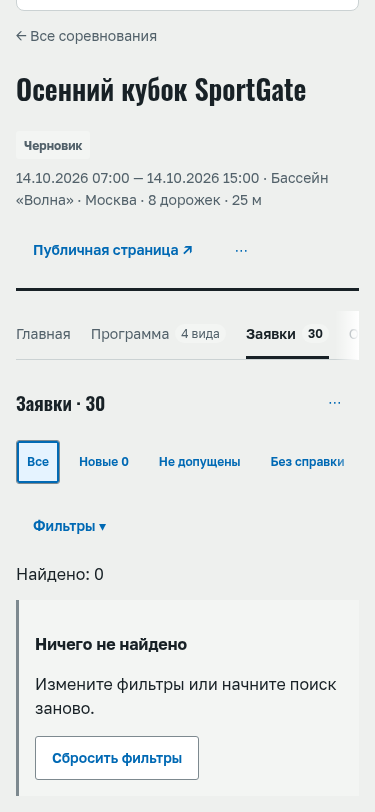
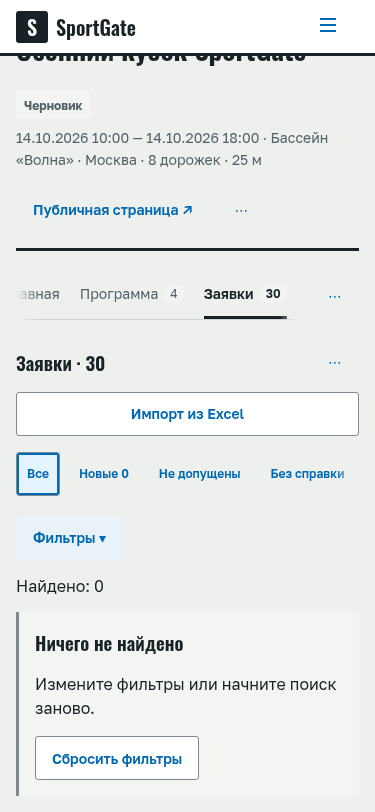
fix(organizer): integrate shared entries table after main merge

diff --git a/sport-platform/frontend/src/features/organizer/OrganizerEntriesPage.tsx b/sport-platform/frontend/src/features/organizer/OrganizerEntriesPage.tsx
@@ -3,6 +3,7 @@ import { PaymentHistoryDialog } from '../payments/PaymentHistoryDialog'
 import { money, paymentLabels, type PaymentAction } from '../../api/registration-payments.api'
 import { useState, type FormEvent } from 'react'
 import { EntryRowMenu } from './EntryRowMenu'
+import { DataTable } from '../../components/ui/DataTable'
 import { EmptyState } from '../../components/ui/EmptyState'
 import { Notice } from '../../components/ui/Notice'
 import { DocumentsPanel } from '../documents/DocumentsPanel'
@@ -158,9 +159,7 @@ export function OrganizerEntriesPage() {
         <h2>Заявки · <span className={styles.numeric}>{registrations.length}</span></h2>
         <div className={styles.actions}>
           <button className={`${styles.importButton} fl-btn fl-btn-secondary`} disabled={busy || event.status === 'ARCHIVED'} title={disabledReason} onClick={() => setImportOpen(true)}>Импорт из Excel</button>
-          <EntryRowMenu label="Ещё действия" triggerName="Ещё действия">
-            <button className="fl-btn fl-btn-ghost" onClick={exportEntries}>Экспорт списка (CSV)</button>
-          </EntryRowMenu>
+          <EntryRowMenu label="Ещё действия" items={[{ label: 'Экспорт списка (CSV)', onSelect: exportEntries }]} />
         </div>
       </header>
       {disabledReason && <small className={styles.muted}>{disabledReason}</small>}
@@ -261,55 +260,39 @@ export function OrganizerEntriesPage() {
         {visible.length > 0 && <label className={styles.selection}><input type="checkbox" aria-label="Выбрать все видимые заявки" disabled={bulkBusy || busy || event.status === 'ARCHIVED'} title={disabledReason || (bulkBusy ? 'Дождитесь завершения обработки заявок' : undefined)} checked={visible.length > 0 && visible.every(r => selected.includes(r.id))} onChange={e => setSelected(e.target.checked ? [...new Set([...selected, ...visible.map(r => r.id)])] : selected.filter(id => !visible.some(r => r.id === id)))} /><span className={styles.selectAllLabel}>Выбрать все</span></label>}
       </div>
       {visible.length > 0 && <div className={styles.tableFrame}>
-        <div className={`${styles.table} fl-table-scroll fl-data-table-scroll fl-rowcards`} role="region" aria-label="Заявки участников" tabIndex={0}>
-          <table className="fl-table">
-            <caption className="fl-sr-only">Заявки участников</caption>
-            <thead><tr>
-              {[
-                { label: '№', className: styles.number },
-                { label: 'ФИО', className: styles.name },
-                { label: 'Год', className: styles.year },
-                { label: 'Клуб', className: styles.club },
-                { label: 'Вид', className: styles.discipline },
-                { label: 'Допуск', className: styles.admission },
-                { label: 'Документы', className: styles.documents, title: '✓ принят · ◷ на проверке · ✕ отклонён · — нет' },
-                { label: 'Заявочное время', className: styles.seed },
-                { label: 'Статус', className: styles.status },
-                { label: 'Оплата', className: styles.payment },
-                { label: 'Действия', className: styles.rowActions },
-              ].map(column => <th key={column.label} scope="col" className={column.className} title={column.title}>{column.label}</th>)}
-            </tr></thead>
-            <tbody>{visible.map((r, index) => {
-              const name = `${r.participantSnapshot.lastName} ${r.participantSnapshot.firstName} ${r.participantSnapshot.middleName ?? ''}`.trim()
-              const canPay = ['CONFIRMED', 'ADMITTED'].includes(r.status) && !['PAID', 'WAIVED', 'REFUNDED'].includes(r.paymentStatus)
-              const canReview = ['SUBMITTED', 'UNDER_REVIEW'].includes(r.status)
-              return <tr key={r.id}>
-                <td className={styles.number}><label className={styles.selection}><input type="checkbox" aria-label={`Выбрать заявку ${r.participantSnapshot.lastName} ${r.participantSnapshot.firstName}`} checked={selected.includes(r.id)} disabled={bulkBusy || busy || event.status === 'ARCHIVED'} title={disabledReason || (bulkBusy ? 'Дождитесь завершения обработки заявок' : undefined)} onChange={e => setSelected(e.target.checked ? [...selected, r.id] : selected.filter(id => id !== r.id))} /><span>{index + 1}</span></label></td>
-                <th scope="row" className={styles.name}>
-                  {name}
+        <div className={styles.table}>
+          <DataTable caption="Заявки участников" cards minWidth="var(--content-max)" maxHeight="min(60vh, calc(var(--space-16) * 10))"
+            rows={visible.map((r, index) => ({ ...r, rowNumber: index + 1,
+              name: `${r.participantSnapshot.lastName} ${r.participantSnapshot.firstName} ${r.participantSnapshot.middleName ?? ''}`.trim(),
+              canPay: ['CONFIRMED', 'ADMITTED'].includes(r.status) && !['PAID', 'WAIVED', 'REFUNDED'].includes(r.paymentStatus),
+              canReview: ['SUBMITTED', 'UNDER_REVIEW'].includes(r.status),
+            }))} rowKey={r => r.id} columns={[
+            { key: 'number', header: <span className={styles.number}>№</span>, label: '', render: r => <div className={styles.number}><label className={styles.selection}><input type="checkbox" aria-label={`Выбрать заявку ${r.participantSnapshot.lastName} ${r.participantSnapshot.firstName}`} checked={selected.includes(r.id)} disabled={bulkBusy || busy || event.status === 'ARCHIVED'} title={disabledReason || (bulkBusy ? 'Дождитесь завершения обработки заявок' : undefined)} onChange={e => setSelected(e.target.checked ? [...selected, r.id] : selected.filter(id => id !== r.id))} /><span>{r.rowNumber}</span></label></div> },
+            { key: 'name', header: <span className={styles.name}>ФИО</span>, label: '', rowHeader: true, render: r => <div className={styles.name}>
+                  {r.name}
                   {r.admissionWarnings?.map(warning => <small key={warning} className={styles.error}>{warning}</small>)}
-                </th>
-                <td className={styles.mobileMeta}>{event.disciplines.find(d => d.id === r.eventDisciplineId)?.name ?? '—'} · {r.participantSnapshot.birthDate?.slice(0, 4) ?? '—'} · {r.participantSnapshot.clubName || '—'}</td>
-                <td className={styles.year} data-numeric>{r.participantSnapshot.birthDate?.slice(0, 4) ?? '—'}</td>
-                <td className={styles.club}>{r.participantSnapshot.clubName || '—'}</td>
-                <td className={styles.discipline}>{event.disciplines.find(d => d.id === r.eventDisciplineId)?.name ?? '—'}</td>
-                <td className={styles.admission}><span title={admission(r).title}>{admission(r).excluded ? 'Не допущена' : admission(r).label}</span></td>
-                <td className={styles.documents}><span title={(Object.keys(documentTypes) as DocumentType[]).map(type => `${documentTypes[type]}: ${documentStatusLabels[r.documents?.[type] ?? 'NOT_UPLOADED']}`).join(' · ')}>{(Object.keys(documentTypes) as DocumentType[]).map(type => {
+                </div> },
+            { key: 'mobileMeta', header: <span className={styles.mobileMeta}></span>, label: '', render: r => <div className={styles.mobileMeta}>{event.disciplines.find(d => d.id === r.eventDisciplineId)?.name ?? '—'} · {r.participantSnapshot.birthDate?.slice(0, 4) ?? '—'} · {r.participantSnapshot.clubName || '—'}</div> },
+            { key: 'year', header: <span className={styles.year}>Год</span>, label: '', numeric: true, render: r => <div className={styles.year}>{r.participantSnapshot.birthDate?.slice(0, 4) ?? '—'}</div> },
+            { key: 'club', header: <span className={styles.club}>Клуб</span>, label: '', render: r => <div className={styles.club}>{r.participantSnapshot.clubName || '—'}</div> },
+            { key: 'discipline', header: <span className={styles.discipline}>Вид</span>, label: '', render: r => <div className={styles.discipline}>{event.disciplines.find(d => d.id === r.eventDisciplineId)?.name ?? '—'}</div> },
+            { key: 'admission', header: <span className={styles.admission}>Допуск</span>, label: '', render: r => <div className={styles.admission}><span title={admission(r).title}>{admission(r).excluded ? 'Не допущена' : admission(r).label}</span></div> },
+            { key: 'documents', header: <span className={styles.documents} title="✓ принят · ◷ на проверке · ✕ отклонён · — нет">Документы</span>, label: '', render: r => <div className={styles.documents}><span title={(Object.keys(documentTypes) as DocumentType[]).map(type => `${documentTypes[type]}: ${documentStatusLabels[r.documents?.[type] ?? 'NOT_UPLOADED']}`).join(' · ')}>{(Object.keys(documentTypes) as DocumentType[]).map(type => {
                   const state = r.documents?.[type] ?? 'NOT_UPLOADED'
                   return <span key={type} title={`${documentTypes[type]}: ${documentStatusLabels[state]}`}>{state === 'ACCEPTED' ? '✓' : state === 'PENDING' ? '◷' : state === 'REJECTED' ? '✕' : '—'} </span>
-                })}</span></td>
-                <td data-numeric className={styles.seed}><span className={styles.mobileLabel}>Заявочное время</span><SeedTimeEditor registration={r} /></td>
-                <td className={styles.status}><StatusBadge kind="registration" code={r.status} />{r.waitlistPosition != null ? ` · № ${r.waitlistPosition}` : ''}</td>
-                <td className={styles.payment}><span className={styles.mobileLabel}>Оплата</span><span className={styles.paymentContent}>{r.feeAmount != null && <span className={styles.numeric}>{money(r.feeAmount, r.feeCurrency ?? 'RUB')}</span>}<StatusBadge kind="payment" code={r.paymentStatus} /></span></td>
-                <td className={styles.rowActions}><div className={styles.actions}>
-                  {canReview ? <button className="fl-btn fl-btn-secondary" disabled={busy || event.status === 'ARCHIVED'} title={disabledReason} onClick={() => openReview(r.id, 'CONFIRMED')}>Подтвердить</button>
-                    : canPay ? <button className="fl-btn fl-btn-secondary" disabled={busy || event.status === 'ARCHIVED'} title={disabledReason} onClick={() => setPaymentDialog({ ids: [r.id], amount: r.feeAmount })}>Отметить оплату…</button> : null}
+                })}</span></div> },
+            { key: 'seed', header: <span className={styles.seed}>Заявочное время</span>, label: '', numeric: true, render: r => <div className={styles.seed}><span className={styles.mobileLabel}>Заявочное время</span><SeedTimeEditor registration={r} /></div> },
+            { key: 'status', header: <span className={styles.status}>Статус</span>, label: '', render: r => <div className={styles.status}><StatusBadge kind="registration" code={r.status} />{r.waitlistPosition != null ? ` · № ${r.waitlistPosition}` : ''}</div> },
+            { key: 'payment', header: <span className={styles.payment}>Оплата</span>, label: '', render: r => <div className={styles.payment}><span className={styles.mobileLabel}>Оплата</span><span className={styles.paymentContent}>{r.feeAmount != null && <span className={styles.numeric}>{money(r.feeAmount, r.feeCurrency ?? 'RUB')}</span>}<span title="Статус оплаты"><StatusBadge kind="payment" code={r.paymentStatus} /></span></span></div> },
+            { key: 'rowActions', header: <span className={styles.rowActions}>Действия</span>, label: '', render: r => <div className={styles.rowActions}><div className={styles.actions}>
+                  {r.canReview ? <button className="fl-btn fl-btn-secondary" disabled={busy || event.status === 'ARCHIVED'} title={disabledReason} onClick={() => openReview(r.id, 'CONFIRMED')}>Подтвердить</button>
+                    : r.canPay ? <button className="fl-btn fl-btn-secondary" disabled={busy || event.status === 'ARCHIVED'} title={disabledReason} onClick={() => setPaymentDialog({ ids: [r.id], amount: r.feeAmount })}>Отметить оплату…</button> : null}
                   <EntryRowMenu>
                     {r.status === 'WAITLISTED' && <button className="fl-btn fl-btn-secondary" disabled={busy || event.status === 'ARCHIVED'} title={disabledReason} onClick={() => openReview(r.id, 'CONFIRMED')}>Подтвердить вне лимита</button>}
-                    {canReview && <button className="fl-btn fl-btn-secondary" disabled={busy || event.status === 'ARCHIVED'} title={disabledReason} onClick={() => openReview(r.id, 'NEEDS_CORRECTION')}>Вернуть</button>}
+                    {r.canReview && <button className="fl-btn fl-btn-secondary" disabled={busy || event.status === 'ARCHIVED'} title={disabledReason} onClick={() => openReview(r.id, 'NEEDS_CORRECTION')}>Вернуть</button>}
                     {['SUBMITTED', 'UNDER_REVIEW', 'WAITLISTED', 'CONFIRMED', 'NEEDS_CORRECTION'].includes(r.status) && <button className="fl-btn fl-btn-danger" disabled={busy || event.status === 'ARCHIVED'} title={disabledReason} onClick={() => openReview(r.id, 'REJECTED')}>Отклонить</button>}
                     {!['WITHDRAWN', 'CANCELLED', 'REJECTED'].includes(r.status) && <button className="fl-btn fl-btn-secondary" disabled={busy || event.status === 'ARCHIVED'} title={disabledReason} onClick={() => { clearError(); setWithdraw(r) }}>Снять</button>}
-                    {canPay && <button className="fl-btn fl-btn-secondary" disabled={busy || event.status === 'ARCHIVED'} title={disabledReason} onClick={() => setPaymentDialog({ ids: [r.id], action: 'waive-payment' })}>Освободить от взноса</button>}
+                    {r.canPay && <button className="fl-btn fl-btn-secondary" disabled={busy || event.status === 'ARCHIVED'} title={disabledReason} onClick={() => setPaymentDialog({ ids: [r.id], action: 'waive-payment' })}>Освободить от взноса</button>}
                     {r.paymentStatus === 'PAID' && <button className="fl-btn fl-btn-secondary" disabled={busy || event.status === 'ARCHIVED'} title={disabledReason} onClick={() => setPaymentDialog({ ids: [r.id], action: 'refund-payment', amount: r.paidAmount })}>Вернуть оплату</button>}
                     {['PAID', 'WAIVED', 'REFUNDED'].includes(r.paymentStatus) && <button className="fl-btn fl-btn-secondary" disabled={busy || event.status === 'ARCHIVED'} title={disabledReason} onClick={() => setPaymentDialog({ ids: [r.id], action: 'reset-payment' })}>Сбросить оплату</button>}
                     <button className="fl-btn fl-btn-ghost" onClick={() => setHistoryId(r.id)}>История оплаты</button>
@@ -317,10 +300,8 @@ export function OrganizerEntriesPage() {
                     <p className={styles.muted}>Год: {r.participantSnapshot.birthDate?.slice(0, 4) ?? '—'} · Клуб: {r.participantSnapshot.clubName || '—'} · Пол: {r.participantSnapshot.gender === 'MALE' ? 'Мужской' : r.participantSnapshot.gender === 'FEMALE' ? 'Женский' : '—'} · Источник: {r.source === 'IMPORT' ? 'Импорт' : 'Форма'}</p>
                     <p className={styles.muted}>{admission(r).title}</p>
                   </EntryRowMenu>
-                </div></td>
-              </tr>
-            })}</tbody>
-          </table>
+                </div></div> }
+          ]} />
         </div>
       </div>}
       {!visible.length && !busy && !error && <EmptyState title={registrations.length ? 'Ничего не найдено' : 'Заявок пока нет'} action={registrations.length

diff --git a/sport-platform/frontend/src/features/organizer/Entries.module.css b/sport-platform/frontend/src/features/organizer/Entries.module.css
@@ -8,7 +8,7 @@
 .error { color: var(--color-danger); }
 .link { color: var(--color-primary); text-decoration: underline; }
 .stack, .form { display: grid; gap: var(--space-4); min-width: 0; }
-.chips { min-width: 0; max-width: 100%; display: flex; flex-wrap: nowrap !important; gap: var(--space-2); overflow-x: auto; scrollbar-width: thin; overscroll-behavior-inline: contain; scroll-padding-inline: var(--space-4); mask-image: linear-gradient(90deg, var(--color-text) calc(100% - var(--space-6)), transparent); padding-inline-end: var(--space-6); }
+.card .chips { min-width: 0; max-width: 100%; display: flex; flex-wrap: nowrap; gap: var(--space-2); }
 .chips > button { flex: 0 0 auto; white-space: nowrap; }
 .chips [aria-pressed='true'] { background: var(--surface-3); color: var(--color-primary); box-shadow: var(--focus-ring-inset); }
 .filterPanel { min-width: 0; max-width: 100%; }
@@ -22,16 +22,21 @@
 .card .selection input[type='checkbox']:disabled { opacity: .5; }
 .tableFrame { min-width: 0; position: relative; }
 .tableFrame::after { content: ''; position: absolute; inset: 0 0 0 auto; width: var(--space-6); background: linear-gradient(to left, var(--surface-1), transparent); pointer-events: none; }
-.table { max-height: min(60vh, calc(var(--space-16) * 10)); overflow: auto; scrollbar-width: thin; overscroll-behavior-inline: contain; box-shadow: inset var(--space-2) 0 var(--space-2) calc(-1 * var(--space-2)) var(--border-strong); }
+.table > :global(.fl-data-table-scroll) { max-height: min(60vh, calc(var(--space-16) * 10)); overflow: auto; scrollbar-width: thin; overscroll-behavior-inline: contain; box-shadow: inset var(--space-2) 0 var(--space-2) calc(-1 * var(--space-2)) var(--border-strong); }
+.table { min-width: 0; }
 .table table { width: 100%; table-layout: fixed; }
+.table caption { position: absolute; width: 1px; height: 1px; overflow: hidden; clip-path: inset(50%); }
 .table :is(td, th) { overflow-wrap: anywhere; vertical-align: middle; }
 .table thead th { position: sticky; top: 0; z-index: 1; background: var(--surface-2); font-size: var(--text-xs); }
-.table .number { width: var(--control-h); overflow-wrap: normal; }
-.table thead .number { width: calc(var(--control-h) + var(--space-10)); }
-.table thead .seed { width: calc(var(--space-16) * 2); }
-.table thead .status, .table thead .payment { width: calc(var(--space-16) * 2 + var(--space-4)); }
-.table :is(.admission, .documents) { display: none; }
-.table .mobileMeta, .mobileLabel { display: none; }
+.table :is(th, td):has(> .number) { width: var(--control-h); overflow-wrap: normal; }
+.table thead th:has(> .number) { width: calc(var(--control-h) + var(--space-10)); }
+.card:global(.fl-entries) .table :global(.fl-table) :is(th, td):has(> :is(.number, .name)) { left: auto; }
+.card:global(.fl-entries) .table :global(.fl-table) tbody :is(th, td):has(> :is(.number, .name)) { position: static; box-shadow: none; }
+.table thead th:has(> .name) { width: calc(var(--space-16) * 3); }
+.table thead th:has(> .seed) { width: calc(var(--space-16) * 2); }
+.table thead th:has(> .status), .table thead th:has(> .payment) { width: calc(var(--space-16) * 2 + var(--space-4)); }
+.table :is(th, td):has(> :is(.admission, .documents)) { display: none; }
+.table :is(th, td):has(> .mobileMeta), .mobileLabel { display: none; }
 .name > small { display: block; font-size: var(--text-xs); font-weight: 400; }
 .name { font-size: var(--text-md); font-weight: var(--font-weight-medium); }
 .table .seedButton { font-variant-numeric: var(--numeric-variant); font-size: var(--text-md); font-weight: var(--font-weight-medium); white-space: nowrap; }
@@ -39,8 +44,8 @@
 .seedForm input { width: 100%; font-variant-numeric: var(--numeric-variant); }
 .seedForm .actions { flex-wrap: wrap; }
 .paymentContent { display: grid; gap: var(--space-1); justify-items: start; }
-.table .rowActions { position: sticky; right: 0; background: var(--surface-1); box-shadow: var(--shadow-drawer); }
-.table thead .rowActions { right: 0; z-index: 2; }
+.table :is(th, td):has(> .rowActions) { position: sticky; right: 0; background: var(--surface-1); box-shadow: var(--shadow-drawer); }
+.table thead th:has(> .rowActions) { right: 0; z-index: 2; width: calc(var(--space-16) * 3); }
 .rowActions .actions { flex-wrap: nowrap; justify-content: flex-end; }
 .rowActions button { padding-inline: var(--space-2); white-space: normal; }
 .bulkBar { display: flex; flex-wrap: wrap; gap: var(--space-2); bottom: 0; box-shadow: var(--shadow-sticky); }
@@ -52,46 +57,41 @@
 @media (min-width: 768px) {
   .card { padding: var(--space-6); }
   .filters { grid-template-columns: repeat(2, minmax(0, 1fr)); }
-  .table table { min-width: var(--content-max); }
 }
 @media (min-width: 1024px) {
   .filters { grid-template-columns: repeat(4, minmax(0, 1fr)); }
 }
-@media (max-width: 1366px) {
-  .table thead .rowActions { width: 21%; }
-}
 @media (min-width: 1367px) {
-  .table :is(.admission, .documents) { display: table-cell; }
-  .table table { min-width: calc(var(--space-16) * 17); }
+  .table :is(th, td):has(> :is(.admission, .documents)) { display: table-cell; }
 }
 @media (max-width: 767px) {
   .card { border: 0; padding: 0; background: transparent; }
   .toolbar { display: grid; grid-template-columns: minmax(0, 1fr) auto; }
   .toolbar > .actions { display: contents; }
   .toolbar .importButton { grid-column: 1 / -1; grid-row: 2; width: 100%; }
-  .toolbar > .actions > button:not(.importButton) { grid-area: 1 / 2; }
+  .toolbar > .actions > :global(.fl-overflow-menu), .toolbar > .actions > button:not(.importButton) { grid-area: 1 / 2; }
   .meta { flex-wrap: nowrap; }
   .meta p, .selectAllLabel { white-space: nowrap; }
-  .table :is(.year, .club) { display: none; }
+  .card .table :is(th, td):has(> :is(.year, .club, .admission, .documents)) { display: none; }
   .tableFrame::after { display: none; }
-  .table { border: 0; border-radius: 0; max-height: none; overflow: visible; box-shadow: none; background: transparent; }
-  .table :is(table, tbody) { display: block; width: 100%; }
-  .card .table thead { position: absolute; clip-path: inset(50%); width: 1px; height: 1px; overflow: hidden; }
-  .card:global(.fl-entries) .table :global(.fl-table) :is(.number, .name) { position: static; left: auto; width: auto; min-width: 0; max-width: none; box-shadow: none; background: transparent; }
-  .table tr { display: grid; grid-template-columns: var(--control-h) minmax(0, 1fr) auto; gap: var(--space-2); padding: var(--space-3); border: 1px solid var(--border-subtle); border-radius: var(--radius-md); margin-bottom: var(--space-2); background: var(--surface-1); }
-  .card .table tr > :is(td, th) { border: 0; padding: 0; background: transparent; }
-  .table .number { grid-area: 1 / 1; align-self: start; }
+  .card .table > :global(.fl-data-table-scroll) { box-shadow: none; }
+  .card:global(.fl-entries) .table :global(.fl-table) :is(th, td):has(> :is(.number, .name)) { position: static; left: auto; width: auto; min-width: 0; max-width: none; box-shadow: none; background: transparent; }
+  .card .table tbody tr { grid-template-columns: var(--control-h) minmax(0, 1fr) auto; gap: var(--space-2); }
+  .card .table tr > :is(td, th) { display: block; border: 0; padding: 0; background: transparent; }
+  .table :is(th, td):has(> .number) { grid-area: 1 / 1; align-self: start; }
   .number span { display: none; }
-  .table .name { grid-area: 1 / 2; align-self: center; text-align: left; }
-  .table .status { grid-area: 1 / 3; align-self: center; max-width: calc(var(--space-16) * 2); }
-  .table .mobileMeta { display: block; grid-area: 2 / 1 / auto / -1; }
-  .table .discipline { display: none; }
-  .table .seed { grid-area: 3 / 1 / auto / -1; display: flex; align-items: center; justify-content: space-between; gap: var(--space-2); white-space: normal; }
+  .table :is(th, td):has(> .name) { grid-area: 1 / 2; align-self: center; text-align: left; }
+  .table :is(th, td):has(> .status) { grid-area: 1 / 3; align-self: center; max-width: calc(var(--space-16) * 2); }
+  .card .table :is(th, td):has(> .mobileMeta) { display: block; grid-area: 2 / 1 / auto / -1; }
+  .card .table :is(th, td):has(> .discipline) { display: none; }
+  .table :is(th, td):has(> .seed) { grid-area: 3 / 1 / auto / -1; }
+  .seed { display: flex; align-items: center; justify-content: space-between; gap: var(--space-2); white-space: normal; }
   .mobileLabel { display: inline; text-align: left; }
   .seedForm { max-width: 60%; }
   .paymentContent { justify-items: end; }
-  .table .payment { grid-area: 4 / 1 / auto / -1; display: flex; justify-content: space-between; align-items: center; gap: var(--space-2); }
-  .table .rowActions { grid-area: 5 / 1 / auto / -1; position: static; box-shadow: none; }
+  .table :is(th, td):has(> .payment) { grid-area: 4 / 1 / auto / -1; }
+  .payment { display: flex; justify-content: space-between; align-items: center; gap: var(--space-2); }
+  .table :is(th, td):has(> .rowActions) { grid-area: 5 / 1 / auto / -1; position: static; box-shadow: none; }
   .rowActions .actions > button:first-child { flex: 1; }
   .rowActions .actions > button:last-child { flex: 0 0 var(--control-h); }
   .bulkBar > button { flex: 1 1 auto; }

diff --git a/sport-platform/frontend/src/features/organizer/EntryRowMenu.tsx b/sport-platform/frontend/src/features/organizer/EntryRowMenu.tsx
@@ -1,22 +1,38 @@
 import { useEffect, useId, useLayoutEffect, useRef, useState, type ReactNode } from 'react'
 import { createPortal } from 'react-dom'
+import { OverflowMenu, type OverflowMenuItem } from '../../components/ui/OverflowMenu'
 import styles from './Entries.module.css'
 
 // Preserve the UX-19 portal and focus lifecycle outside the scrolling table.
-export function EntryRowMenu({ children, label = 'Действия заявки', triggerName = 'Ещё ▾' }: { children: ReactNode; label?: string; triggerName?: string }) {
+type EntryRowMenuProps = { children?: ReactNode; label?: string; triggerName?: string; items?: readonly OverflowMenuItem[] }
+export function EntryRowMenu({ items, ...props }: EntryRowMenuProps) {
+  return items ? <OverflowMenu items={items} label={props.triggerName ?? props.label} /> : <EntryActions {...props} />
+}
+// Keep the QA06-10 / UX-19 row-region contract until the coordinated D04-3 migration.
+function EntryActions({ children, label = 'Действия заявки', triggerName = 'Ещё ▾' }: Omit<EntryRowMenuProps, 'items'>) {
   const [open, setOpen] = useState(false)
   const trigger = useRef<HTMLButtonElement>(null)
   const panel = useRef<HTMLDivElement>(null)
   const id = useId()
   useLayoutEffect(() => {
     if (!open || !trigger.current || !panel.current) return
-    const rect = trigger.current.getBoundingClientRect()
-    const menu = panel.current
-    const gap = parseFloat(getComputedStyle(document.documentElement).getPropertyValue('--space-2')) || 0
-    menu.style.left = `${Math.max(gap, Math.min(rect.right - menu.offsetWidth, window.innerWidth - menu.offsetWidth - gap)) + window.scrollX}px`
-    const top = rect.bottom + menu.offsetHeight + gap <= window.innerHeight ? rect.bottom + gap : Math.max(gap, rect.top - menu.offsetHeight - gap)
-    menu.style.top = `${top + window.scrollY}px`
-    menu.querySelector<HTMLButtonElement>('button:not(:disabled)')?.focus({ preventScroll: true })
+    const position = () => {
+      if (!trigger.current || !panel.current) return
+      const rect = trigger.current.getBoundingClientRect()
+      const menu = panel.current
+      const gap = parseFloat(getComputedStyle(document.documentElement).getPropertyValue('--space-2')) || 0
+      menu.style.left = `${Math.max(gap, Math.min(rect.right - menu.offsetWidth, window.innerWidth - menu.offsetWidth - gap)) + window.scrollX}px`
+      const top = rect.bottom + menu.offsetHeight + gap <= window.innerHeight ? rect.bottom + gap : Math.max(gap, rect.top - menu.offsetHeight - gap)
+      menu.style.top = `${top + window.scrollY}px`
+    }
+    position()
+    panel.current.querySelector<HTMLButtonElement>('button:not(:disabled)')?.focus({ preventScroll: true })
+    window.addEventListener('resize', position)
+    window.addEventListener('scroll', position, true)
+    return () => {
+      window.removeEventListener('resize', position)
+      window.removeEventListener('scroll', position, true)
+    }
   }, [open])
   useEffect(() => {
     if (!open) return
@@ -26,18 +42,11 @@ export function EntryRowMenu({ children, label = 'Действия заявки'
     const escape = (event: KeyboardEvent) => {
       if (event.key === 'Escape') { setOpen(false); trigger.current?.focus({ preventScroll: true }) }
     }
-    const reposition = (event: Event) => {
-      if (!panel.current?.contains(event.target as Node)) setOpen(false)
-    }
     document.addEventListener('pointerdown', outside)
     document.addEventListener('keydown', escape)
-    window.addEventListener('resize', reposition)
-    window.addEventListener('scroll', reposition, true)
     return () => {
       document.removeEventListener('pointerdown', outside)
       document.removeEventListener('keydown', escape)
-      window.removeEventListener('resize', reposition)
-      window.removeEventListener('scroll', reposition, true)
     }
   }, [open])
   return <>

diff --git a/sport-platform/frontend/src/features/organizer/OrganizerEntriesPage.test.tsx b/sport-platform/frontend/src/features/organizer/OrganizerEntriesPage.test.tsx
@@ -216,7 +216,7 @@ it('keeps export in the honestly named header overflow', async () => {
   render(<MemoryRouter><OrganizerEntriesPage /></MemoryRouter>)
   expect(screen.queryByRole('button', { name: 'Экспорт списка (CSV)' })).not.toBeInTheDocument()
   await userEvent.click(screen.getByRole('button', { name: 'Ещё действия' }))
-  const menu = screen.getByRole('region', { name: 'Ещё действия' })
-  expect(within(menu).getByRole('button', { name: 'Экспорт списка (CSV)' })).toBeVisible()
+  const menu = screen.getByRole('menu', { name: 'Ещё действия' })
+  expect(within(menu).getByRole('menuitem', { name: 'Экспорт списка (CSV)' })).toBeVisible()
   expect(within(menu).queryByRole('button', { name: 'Импорт из Excel' })).not.toBeInTheDocument()
 })
